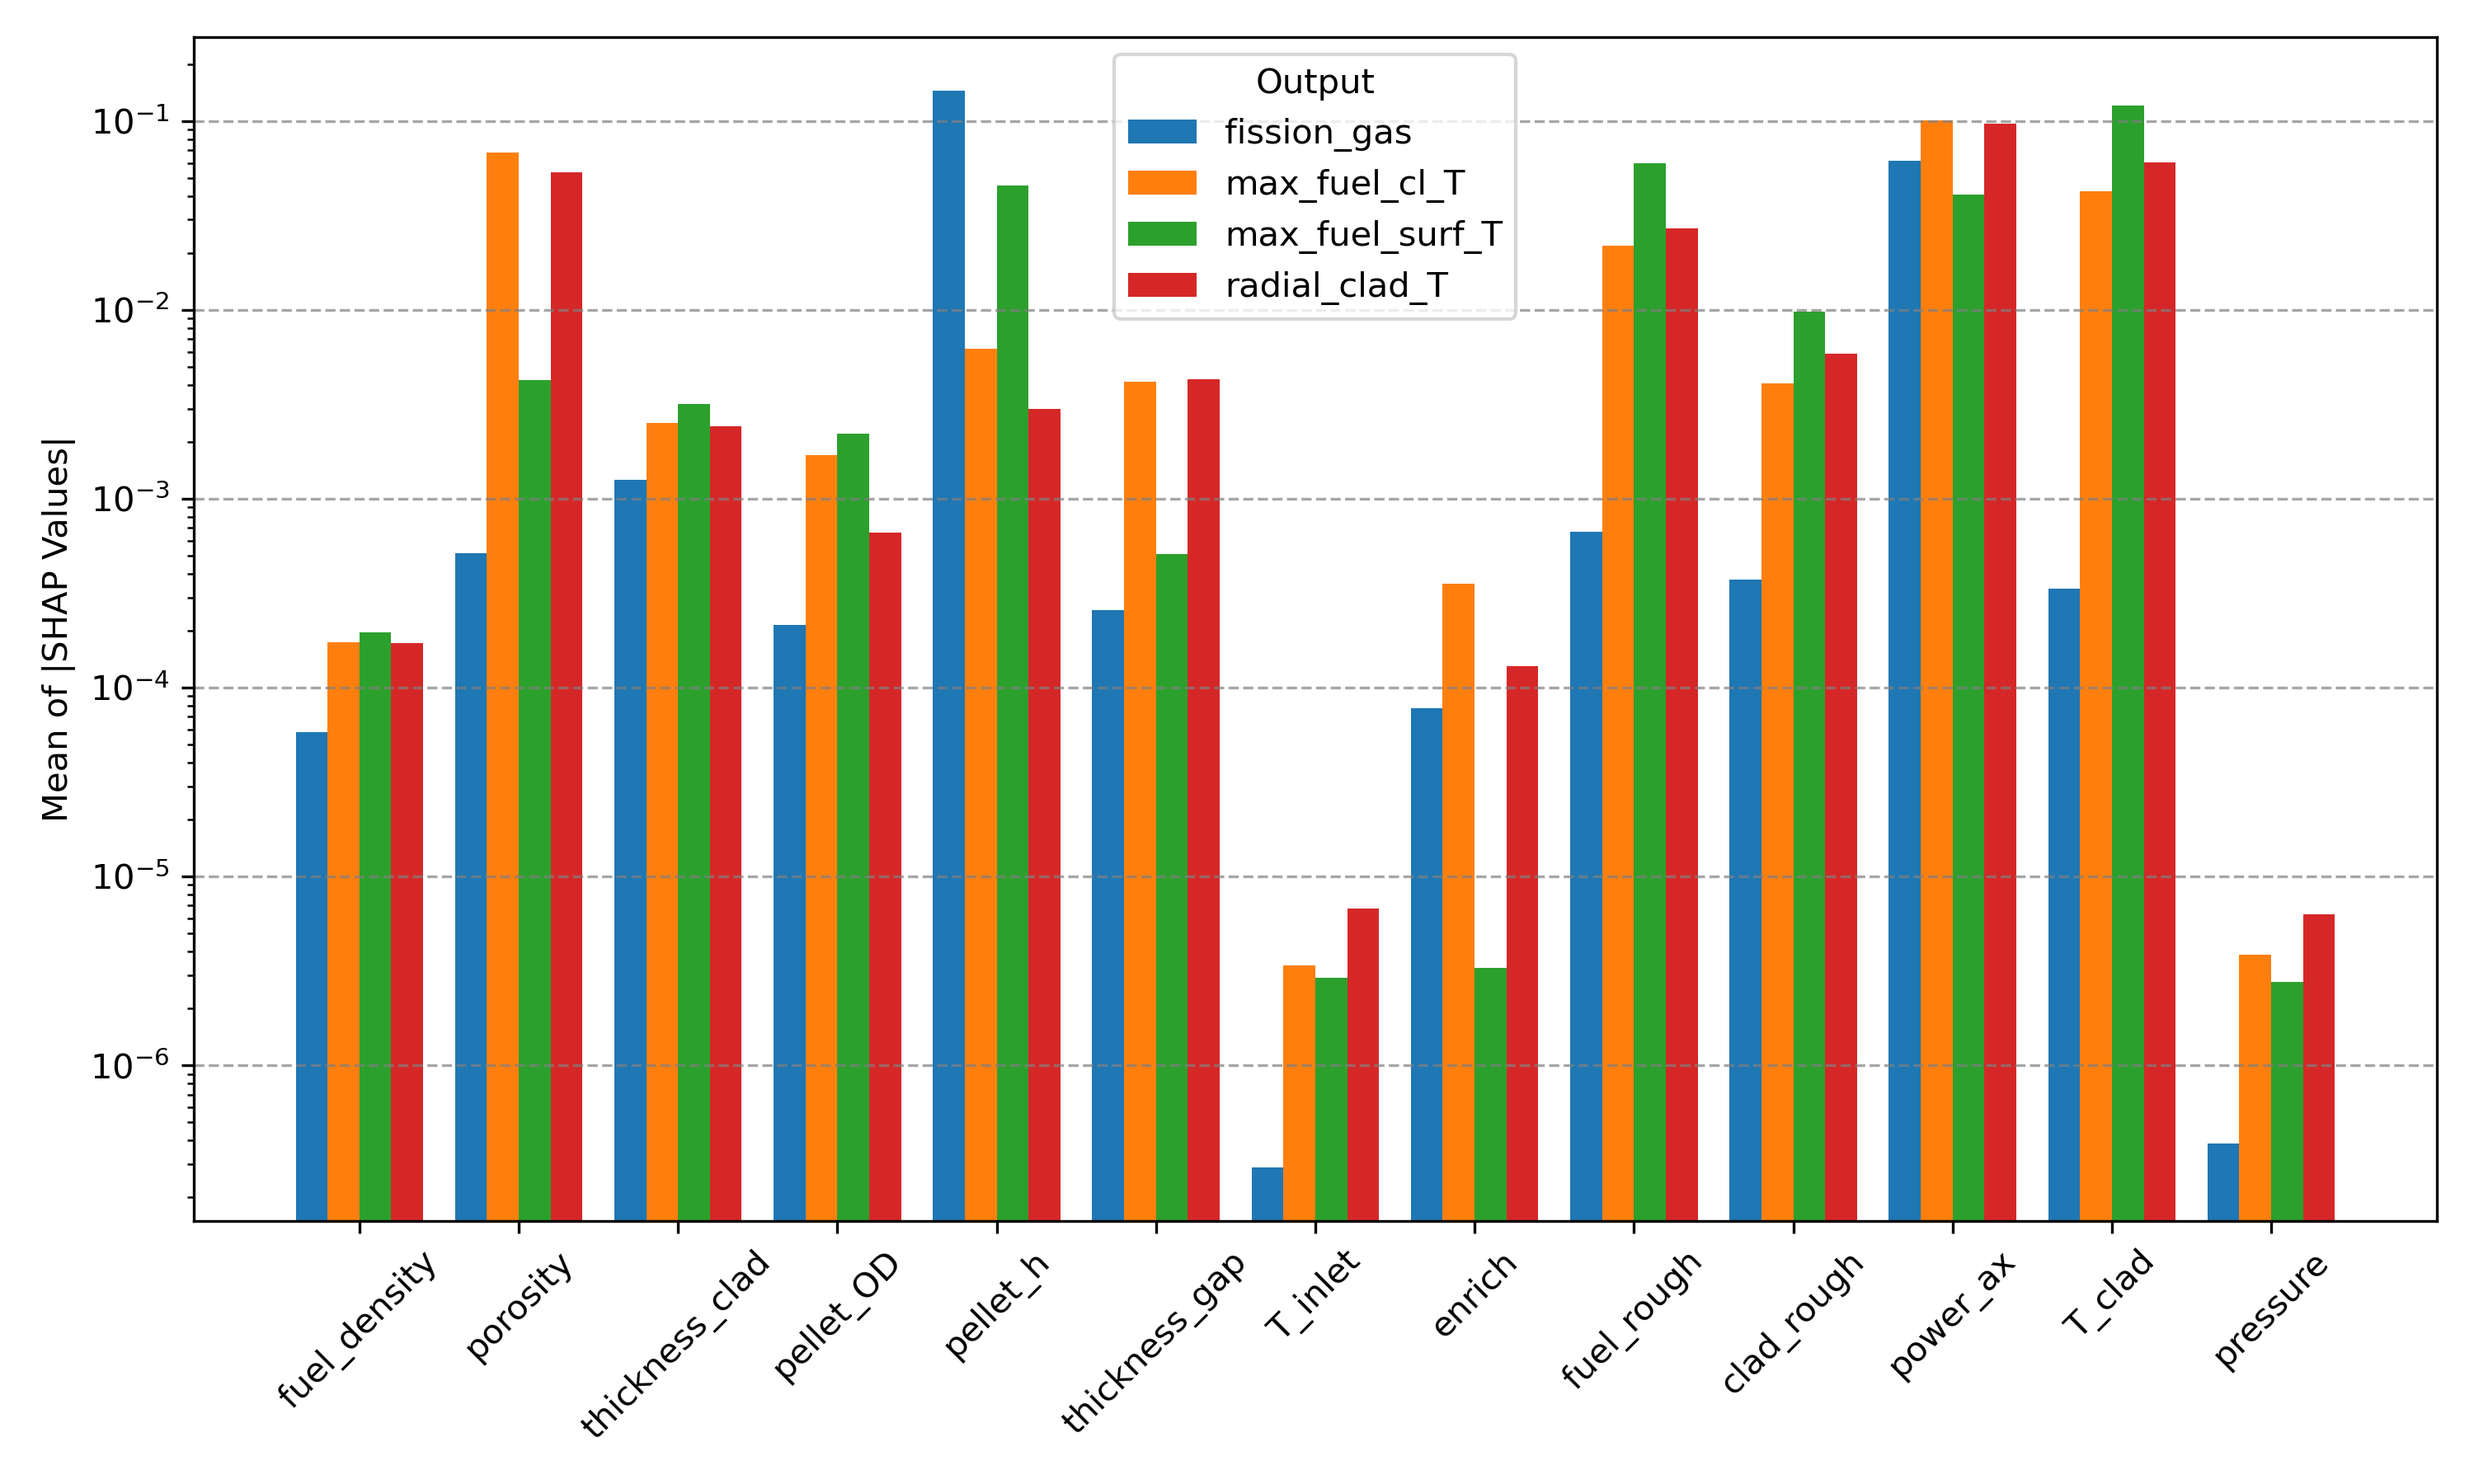
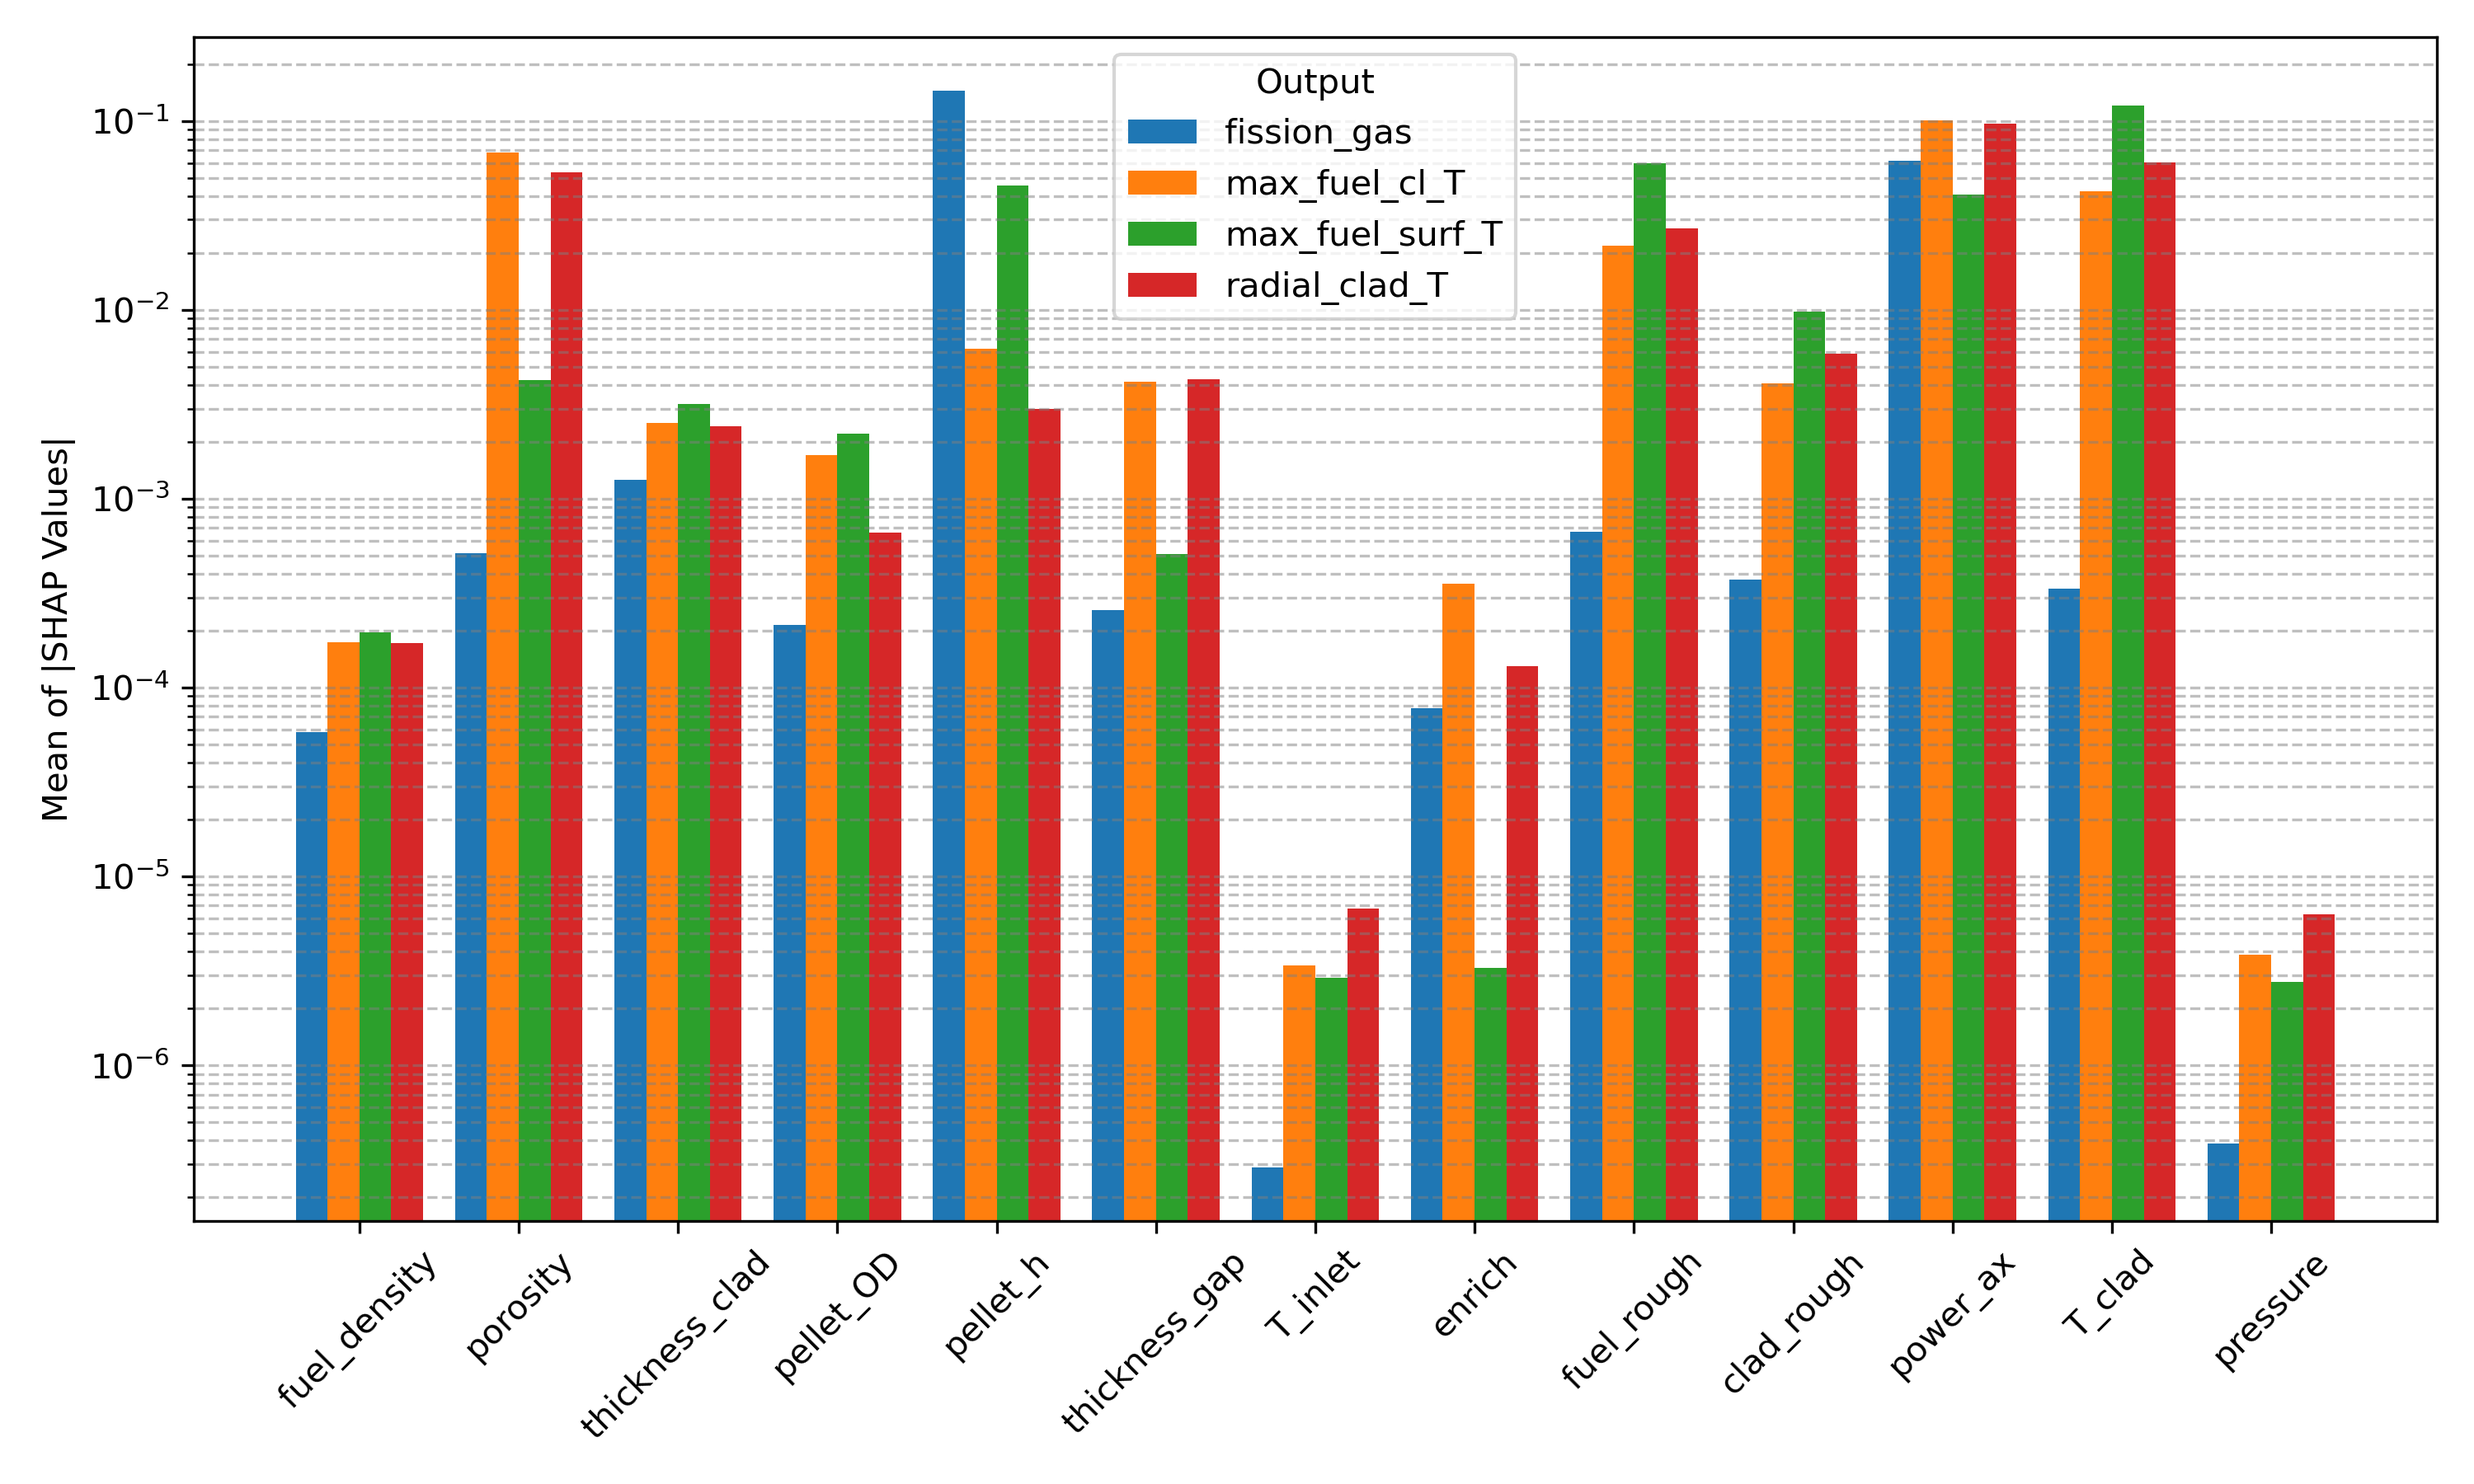
adds log grid

diff --git a/explainability.py b/explainability.py
@@ -1,4 +1,5 @@
 from preprocessing import *
+from accessories import print_shap
 import shap
 import pandas as pd
 import matplotlib.pyplot as plt
@@ -135,7 +136,7 @@ def plot_shap(path, save_as, type='kan', width=0.2):
     ax.set_yscale('log')
     ax.legend(title='Output')
     n = len(output_names)
-    ax.grid(True, axis='y', linestyle='--', color='gray', alpha=0.7)
+    ax.grid(True, which='both', axis='y', linestyle='--', color='gray', alpha=0.5)
     ax.set_xticks(x_positions + (n-1)*width/2)
     ax.set_xticklabels(input_names, rotation=45)
     plt.tight_layout()
@@ -177,6 +178,11 @@ if __name__=="__main__":
     # paths_dict = get_kan_shap(datasets_dict)
     # print(paths_dict)
 
+    ## uncomment to make shap kan plots
     for model, path in shap_path_dict.items():
-        plot_shap(path, save_as=f'{model}_kan', type='kan', width=0.1)
-    # widths: bwr: 0.15, mitr b, c, and full: 0.1, rest: 0.2
+        plot_shap(path, save_as=f'{model}_kan', type='kan', width=0.15)
+
+    ## uncomment to print shap values
+    # for model, path in shap_path_dict.items():
+    #     print_shap(path, save_as=f'{model}', type='kan')
+

diff --git a/accessories.py b/accessories.py
@@ -4,6 +4,7 @@ from sympy import symbols, sympify, lambdify
 import torch
 from sklearn.metrics import mean_absolute_error, mean_squared_error, r2_score
 torch.set_default_dtype(torch.float64)
+import os
 
 def rmspe(ytest, ypred):
     """Generates root mean square percentage error.
@@ -118,3 +119,12 @@ def metrics(output_labels, y_test, y_pred, p):
         metrics['RMSPE'].append(round(rmspe(yi_test, yi_pred), p))
         metrics['R2'].append(round(r2_score(yi_test, yi_pred),p))
     return pd.DataFrame.from_dict(metrics)
+
+def print_shap(path, save_as, type):
+    df = pd.read_pickle(path)
+    if not os.path.exists('shap-values/'):
+        os.makedirs('shap-values')
+    df.to_csv(f'shap-values/{save_as}_{type}.csv')
+    to_latex = df.to_latex(float_format="%.5f", index=True, longtable=True, caption=f'Absolute value of mean SHAP values for {type.upper()} model of {save_as.upper()} dataset.')
+    print(to_latex)
+    return 

diff --git a/fnn.py b/fnn.py
@@ -344,6 +344,10 @@ if __name__=="__main__":
     # print(shap_paths)
 
     # # uncomment to plot shap values
+    # for model, path in shap_path_dict.items():
+    #     plot_shap(path, save_as=f'{model}_fnn', type='fnn')
+
+    ## uncomment to print shap values
     for model, path in shap_path_dict.items():
-        plot_shap(path, save_as=f'{model}_fnn', type='fnn')
+        print_shap(path, save_as=f'{model}', type='fnn')
  
